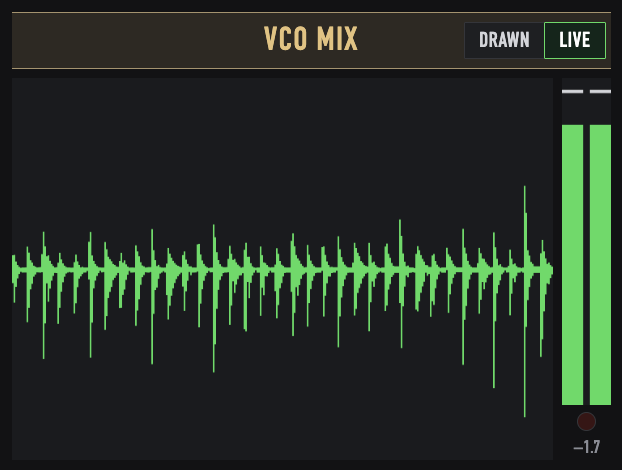
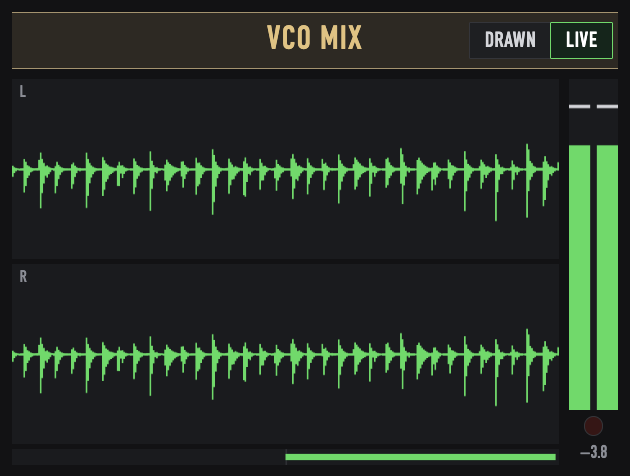
TB-3 LIVE: separate L and R waveforms and a stereo correlation bar
The mixed waveform made a lopsided wave look like a pan. Logging the real TB-3 showed no DC offset and
equal L/R levels; the effects decorrelate the sides. drawCorrelation moves from the SP-404 scopes into
packages/audio so both editors share it.

diff --git a/apps/tb3/src/editor/LiveWave.tsx b/apps/tb3/src/editor/LiveWave.tsx
@@ -1,56 +1,89 @@
-// VCO MIX's LIVE view: the TB-3's output as a scrolling waveform with a stereo level meter
-// (docs/tb3-live-waveform-design.md). Drawn each animation frame, outside React's renders.
+// VCO MIX's LIVE view: the TB-3's output as scrolling L and R waveforms, a stereo correlation bar and a level
+// meter (docs/tb3-live-waveform-design.md). Drawn each animation frame, outside React's renders.
 import { useEffect, useRef } from "react";
 import type { RefObject } from "react";
-import { clearClip, createWaveColumns, drawMeter, drawWave, formatDb, meterStep, paletteOf, pushSamples, samplesPerColumn,
-  silentMeter, surfaceOf } from "@synth-editors/audio";
-import type { Meter, Palette, WaveColumns } from "@synth-editors/audio";
+import {
+  clearClip, correlationOf, createCorrelation, createWaveColumns, drawCorrelation, drawMeter, drawWave, formatDb,
+  meterStep, paletteOf, pushCorrelation, pushSamples, samplesPerColumn, silentMeter, surfaceOf,
+} from "@synth-editors/audio";
+import type { Correlation, Meter, Palette, WaveColumns } from "@synth-editors/audio";
 import type { Listening } from "./tb3Audio";
 import type { AudioStatus, Tb3Audio } from "./useTb3Audio";
 
 const LIVE_SPAN_S = 4;
 const METER_W = 30;
 const READOUT_H = 34;
+const CORR_H = 10;
+const GAP = 3;
 const CLIP_TIP = "Clip light and highest peak (dBFS) since the last click: click to clear";
+const CORR_TIP = "Stereo correlation: right of centre is alike in both sides (+1 is mono), left is out of phase";
+
+type Pair<T> = [T, T];
+type Canvases = [HTMLCanvasElement, HTMLCanvasElement, HTMLCanvasElement, HTMLCanvasElement];
 
 interface Shown {
-  cols: WaveColumns | null;
-  rate: number;
-  meters: [Meter, Meter];
+  waves: Pair<WaveColumns> | null;
+  corr: Correlation | null;
+  meters: Pair<Meter>;
   palette: Palette | null;
 }
 
-const emptyShown = (): Shown => ({ cols: null, rate: 0, meters: [silentMeter(), silentMeter()], palette: null });
+const emptyShown = (): Shown => ({ waves: null, corr: null, meters: [silentMeter(), silentMeter()], palette: null });
 
-// Feed one frame of audio into the columns and meters.
+function start(s: Shown, rate: number, waveW: number) {
+  const perColumn = samplesPerColumn(LIVE_SPAN_S, waveW, rate);
+  s.waves = [createWaveColumns(waveW, perColumn), createWaveColumns(waveW, perColumn)];
+  s.corr = createCorrelation(rate);
+}
+
+// Feed one frame of audio into the waveforms, correlation and meters.
 function advance(s: Shown, l: Listening, waveW: number) {
   const f = l.read();
-  if (!s.cols || s.rate !== l.sampleRate) {
-    s.cols = createWaveColumns(waveW, samplesPerColumn(LIVE_SPAN_S, waveW, l.sampleRate));
-    s.rate = l.sampleRate;
-  }
-  pushSamples(s.cols, f.mix);
+  if (!s.waves || s.corr?.rate !== l.sampleRate) start(s, l.sampleRate, waveW);
+  pushSamples(s.waves![0], f.left);
+  pushSamples(s.waves![1], f.right);
+  pushCorrelation(s.corr!, f.left, f.right);
   s.meters = [meterStep(s.meters[0], f.left, f.now), meterStep(s.meters[1], f.right, f.now)];
 }
 
 interface Parts {
-  wave: RefObject<HTMLCanvasElement | null>;
+  lanes: RefObject<HTMLDivElement | null>;
+  left: RefObject<HTMLCanvasElement | null>;
+  right: RefObject<HTMLCanvasElement | null>;
+  corr: RefObject<HTMLCanvasElement | null>;
   meter: RefObject<HTMLCanvasElement | null>;
   readout: RefObject<HTMLSpanElement | null>;
   clip: RefObject<HTMLButtonElement | null>;
 }
 
-function paint(s: Shown, parts: Parts, size: { waveW: number; h: number }) {
-  const wave = parts.wave.current;
-  const meter = parts.meter.current;
-  if (!wave || !meter) return;
-  const p = (s.palette ??= paletteOf(wave));
-  drawWave(surfaceOf(wave, { w: size.waveW, h: size.h }, p), s.cols);
-  drawMeter(surfaceOf(meter, { w: METER_W, h: size.h - READOUT_H }, p), s.meters);
+interface Size {
+  waveW: number;
+  laneH: number;
+  h: number;
+}
+
+const laneHeight = (h: number) => (h - CORR_H - 2 * GAP) / 2;
+
+function paintReadouts(s: Shown, parts: Parts) {
   const [l, r] = s.meters;
   parts.readout.current!.textContent = formatDb(Math.max(l.maxDb, r.maxDb)).replace(" dB", "");
   parts.clip.current!.classList.toggle("on", l.clipped || r.clipped);
-  wave.dataset.level = String(Math.max(l.db, r.db)); // for tests
+  const lanes = parts.lanes.current!.dataset; // for tests
+  lanes.level = String(Math.max(l.db, r.db));
+  lanes.correlation = String(s.corr ? correlationOf(s.corr) : NaN);
+}
+
+function paint(s: Shown, parts: Parts, size: Size) {
+  const canvases = [parts.left.current, parts.right.current, parts.corr.current, parts.meter.current];
+  if (!canvases.every(Boolean)) return;
+  const [left, right, corr, meter] = canvases as Canvases;
+  const p = (s.palette ??= paletteOf(left));
+  const lane = { w: size.waveW, h: size.laneH };
+  drawWave(surfaceOf(left, lane, p), s.waves?.[0] ?? null);
+  drawWave(surfaceOf(right, lane, p), s.waves?.[1] ?? null);
+  drawCorrelation(surfaceOf(corr, { w: size.waveW, h: CORR_H }, p), s.corr ? correlationOf(s.corr) : NaN);
+  drawMeter(surfaceOf(meter, { w: METER_W, h: size.h - READOUT_H }, p), s.meters);
+  paintReadouts(s, parts);
 }
 
 function useFrames(fn: () => void) {
@@ -70,14 +103,24 @@ function useFrames(fn: () => void) {
 const STATUS_TEXT: Record<AudioStatus["kind"], string> = { off: "", starting: "Opening audio input…", on: "", error: "" };
 const statusText = (s: AudioStatus) => (s.kind === "error" ? s.message : STATUS_TEXT[s.kind]);
 
+function Lane(p: { side: "L" | "R"; canvas: RefObject<HTMLCanvasElement | null>; w: number; h: number }) {
+  return (
+    <div className="lane">
+      <canvas ref={p.canvas} style={{ width: p.w, height: p.h }} />
+      <span className="lanelabel">{p.side}</span>
+    </div>
+  );
+}
+
 export function LiveWave(p: { audio: Tb3Audio; width: number; height: number }) {
-  const parts: Parts = { wave: useRef(null), meter: useRef(null), readout: useRef(null), clip: useRef(null) };
+  const parts: Parts = { lanes: useRef(null), left: useRef(null), right: useRef(null), corr: useRef(null),
+    meter: useRef(null), readout: useRef(null), clip: useRef(null) };
   const shown = useRef<Shown>(emptyShown());
-  const waveW = p.width - METER_W - 6;
+  const size: Size = { waveW: p.width - METER_W - 6, laneH: laneHeight(p.height), h: p.height };
   useFrames(() => {
     const l = p.audio.listening.current;
-    if (l) advance(shown.current, l, waveW);
-    paint(shown.current, parts, { waveW, h: p.height });
+    if (l) advance(shown.current, l, size.waveW);
+    paint(shown.current, parts, size);
   });
   const clear = () => {
     const s = shown.current;
@@ -86,7 +129,11 @@ export function LiveWave(p: { audio: Tb3Audio; width: number; height: number }) 
   const text = statusText(p.audio.status);
   return (
     <div className="livewave" style={{ width: p.width, height: p.height }}>
-      <canvas ref={parts.wave} className="wavecanvas" style={{ width: waveW, height: p.height }} />
+      <div ref={parts.lanes} className="wavelanes" style={{ width: size.waveW, gap: GAP }}>
+        <Lane side="L" canvas={parts.left} w={size.waveW} h={size.laneH} />
+        <Lane side="R" canvas={parts.right} w={size.waveW} h={size.laneH} />
+        <canvas ref={parts.corr} title={CORR_TIP} style={{ width: size.waveW, height: CORR_H }} />
+      </div>
       {text && <p className="livestatus">{text}</p>}
       <div className="meterbox" style={{ width: METER_W }}>
         <canvas ref={parts.meter} style={{ width: METER_W, height: p.height - READOUT_H }} />

diff --git a/apps/tb3/e2e/live.e2e.ts b/apps/tb3/e2e/live.e2e.ts
@@ -8,9 +8,10 @@ let running: Tb3App | undefined;
 test.afterEach(async () => finish(running));
 
 const vcoMix = (page: Page) => page.locator(".vcosum");
-const level = (page: Page) => vcoMix(page).locator(".wavecanvas").evaluate((c) => Number((c as HTMLElement).dataset.level));
+const reading = (page: Page, name: "level" | "correlation") =>
+  vcoMix(page).locator(".wavelanes").evaluate((el, key) => Number((el as HTMLElement).dataset[key]), name);
 
-test("LIVE asks for an input when there's no TB-3 audio, then shows the chosen one's level", async () => {
+test("LIVE asks for an input when there's no TB-3 audio, then shows the chosen one's readings", async () => {
   const { page } = (running = await start());
   await vcoMix(page).getByRole("button", { name: "LIVE" }).click();
   await expect(vcoMix(page).locator(".livestatus")).toContainText("No TB-3 audio input");
@@ -23,7 +24,11 @@ test("LIVE asks for an input when there's no TB-3 audio, then shows the chosen o
   await page.getByRole("button", { name: "CLOSE" }).click();
 
   await expect(vcoMix(page).locator(".livestatus")).toHaveCount(0);
-  await expect.poll(() => level(page), { timeout: 5000 }).toBeGreaterThan(-48);
+  await expect.poll(() => reading(page, "level"), { timeout: 5000 }).toBeGreaterThan(-48);
+  await expect(vcoMix(page).locator(".lanelabel")).toHaveText(["L", "R"]);
+  const corr = await reading(page, "correlation");
+  expect(corr).toBeGreaterThanOrEqual(-1);
+  expect(corr).toBeLessThanOrEqual(1);
 });
 
 test("DRAWN goes back to the picture and LIVE is remembered", async () => {

diff --git a/packages/audio/src/liveDraw.ts b/packages/audio/src/liveDraw.ts
@@ -1,4 +1,4 @@
-// Canvas drawing for the LIVE waveform and level meter (docs/tb3-live-waveform-design.md).
+// Canvas drawing for the LIVE waveform, level meter and correlation bar (docs/tb3-live-waveform-design.md).
 import { forEachColumn } from "./waveColumns";
 import type { WaveColumns } from "./waveColumns";
 import { meterFraction } from "./levelMeter";
@@ -91,4 +91,17 @@ export function drawMeter(s: Surface, meters: [Meter, Meter]) {
   s.g.fillStyle = s.p.well;
   s.g.fillRect(0, 0, s.w, s.h);
   meters.forEach((m, i) => drawBar(s, m, { x: i * (bw + gap), bw }));
+}
+
+// −1 … +1 with the centre marked; the value as a block from the centre (amber below 0). NaN draws no block.
+export function drawCorrelation({ g, w, h, p }: Surface, value: number) {
+  g.fillStyle = p.well;
+  g.fillRect(0, 0, w, h);
+  g.fillStyle = p.axis;
+  g.fillRect(Math.round(w / 2), 0, 1, h);
+  if (Number.isNaN(value)) return;
+  const mid = w / 2;
+  const x = mid + value * (mid - 2);
+  g.fillStyle = value < 0 ? p.hot : p.trace;
+  g.fillRect(Math.min(mid, x), 3, Math.max(2, Math.abs(x - mid)), h - 6);
 }

diff --git a/apps/sp404/src/scope/scopeDraw.ts b/apps/sp404/src/scope/scopeDraw.ts
@@ -1,5 +1,5 @@
 // Canvas drawing for the SCOPE view (docs/sp404-design.md › Scopes): the spectrum with its frequency and level
-// grid, the beat grid over a waveform lane, and the correlation bar. The waveform and meter come from
+// grid, and the beat grid over a waveform lane. The waveform, meter and correlation bar come from
 // packages/audio (shared with the TB-3).
 
 import { hzFraction, isBar } from "@synth-editors/audio";
@@ -84,15 +84,4 @@ export function drawBeats(s: Surface, beats: { beat: Beat; x: number }[], number
   g.globalAlpha = 1;
 }
 
-// −1 … +1 with the centre marked; the value as a block from the centre (amber below 0). NaN draws no block.
-export function drawCorrelation({ g, w, h, p }: Surface, value: number) {
-  g.fillStyle = p.well;
-  g.fillRect(0, 0, w, h);
-  g.fillStyle = p.axis;
-  g.fillRect(Math.round(w / 2), 0, 1, h);
-  if (Number.isNaN(value)) return;
-  const mid = w / 2;
-  const x = mid + value * (mid - 2);
-  g.fillStyle = value < 0 ? p.hot : p.trace;
-  g.fillRect(Math.min(mid, x), 3, Math.max(2, Math.abs(x - mid)), h - 6);
-}
+

diff --git a/apps/sp404/src/scope/scopePaint.ts b/apps/sp404/src/scope/scopePaint.ts
@@ -2,11 +2,11 @@
 // Readouts are set as text on their elements, so React doesn't re-render 60 times a second.
 
 import {
-  clockBpm, correlationOf, drawMeter, drawWave, formatDb, formatLufs, integratedLufs, paletteOf, shortTermLufs,
-  surfaceOf,
+  clockBpm, correlationOf, drawCorrelation, drawMeter, drawWave, formatDb, formatLufs, integratedLufs, paletteOf,
+  shortTermLufs, surfaceOf,
 } from "@synth-editors/audio";
 import type { BeatClock, Listening, Palette } from "@synth-editors/audio";
-import { drawBeats, drawCorrelation, drawSpectrum } from "./scopeDraw";
+import { drawBeats, drawSpectrum } from "./scopeDraw";
 import { columnOfTime, type ScopeState, type Waves } from "./scopeEngine";
 
 export type PartName =

diff --git a/apps/tb3/src/styles.css b/apps/tb3/src/styles.css
@@ -1063,6 +1063,21 @@ svg .handle:hover > .dot {
 .livewave canvas {
   display: block;
 }
+.wavelanes {
+  display: flex;
+  flex-direction: column;
+}
+.wavelanes .lane {
+  position: relative;
+}
+.wavelanes .lanelabel {
+  position: absolute;
+  top: 3px;
+  left: 5px;
+  font-size: 10px;
+  color: var(--dim);
+  pointer-events: none;
+}
 .livestatus {
   position: absolute;
   inset: 0 42px 0 0;

diff --git a/docs/tb3-live-waveform-design.md b/docs/tb3-live-waveform-design.md
@@ -8,10 +8,14 @@ actually playing, next to the picture it draws from the settings.
 
 - **VCO MIX** gets **DRAWN / LIVE** buttons in its header. DRAWN is today's picture of the mixed oscillators,
   drawn from the settings. LIVE shows the TB-3's output instead.
-- **Waveform**: a scrolling readout of the last few seconds, newest on the right. Each pixel column is the lowest
-  and highest sample in its slice of time, drawn as a filled band around the centre line, the way a DAW draws a
-  recording as it comes in. Notes, accents, envelopes, filter sweeps and the LFO show as the shape of the band;
-  silence is a flat line. Left and right are mixed for the waveform.
+- **Waveform**: a scrolling readout of the last few seconds, newest on the right, in two lanes: L above R. Each
+  pixel column is the lowest and highest sample in its slice of time, drawn as a filled band around the centre
+  line, the way a DAW draws a recording as it comes in. Notes, accents, envelopes, filter sweeps and the LFO show
+  as the shape of the band; silence is a flat line. (The first version mixed L and R into one lane; a lopsided
+  band then looked like a pan. Logging the real TB-3 showed no DC offset and equal L/R levels: the lopsidedness
+  is the wave's own shape, and the effects decorrelate the sides.)
+- **Correlation**: a thin −1 … +1 bar under the lanes (shared with the SP-404's scopes), averaged over about
+  300 ms. Right of centre is alike, +1 mono; amber left of centre is out of phase.
 - **Span**: 4 s across the panel (about 11 ms per column at its width). Fixed at first; a TIME control can come
   later if 4 s turns out wrong.
 - **Level meter**: two thin bars, L and R, down the right edge of the panel, scaled −48 to 0 dBFS:
@@ -40,8 +44,9 @@ actually playing, next to the picture it draws from the settings.
   (they would change the level and shape). An `AudioContext` splits the two channels into two `AnalyserNode`s,
   which feed a silent gain node so the graph runs without playing anything.
 - Each animation frame reads the samples that arrived since the last frame (from the context's clock) and feeds
-  them to two pure, unit-tested pieces in `core/`:
-  - `waveColumns`: builds min/max columns from a stream of samples, in a ring of the panel's width.
+  them to pure, unit-tested pieces in `packages/audio` (shared with the SP-404 editor):
+  - `waveColumns`: builds min/max columns from a stream of samples, in a ring of the panel's width (one per side).
+  - `correlation`: L·R over √(L²·R²), fading with a 300 ms time constant.
   - `levelMeter`: peak, fall, hold and clip from each frame's samples, in dBFS.
 - A canvas draws both, outside React's render loop. Nothing is stored or sent.
 - The audio stops when LIVE is switched off or the window closes.

diff --git a/apps/tb3/docs/user-guide.md b/apps/tb3/docs/user-guide.md
@@ -97,14 +97,19 @@ parameter that can be assigned gets a dotted outline. Click the one you want; Es
 
 ### The TB-3's output, live
 
-![VCO MIX in LIVE: the last 4 seconds of the TB-3's output, with its level](images/vco-mix-live.png)
+![VCO MIX in LIVE: the last 4 seconds of the TB-3's left and right output, with its level](images/vco-mix-live.png)
 
 Click **LIVE** in VCO MIX to see what the TB-3 is actually playing. This uses the TB-3's USB audio,
 so the TB-3 needs to be connected by USB, with Roland's TB-3 driver installed.
 
-- **The waveform** scrolls from right to left and shows the last 4 seconds. Each note is a burst whose
-  shape follows the envelopes; accents stand taller, filter sweeps and the LFO change the outline, and
-  silence is a flat line.
+- **The waveforms**, left (L) above right (R), scroll from right to left and show the last 4 seconds.
+  Each note is a burst whose shape follows the envelopes; accents stand taller, filter sweeps and the LFO
+  change the outline, and silence is a flat line. The TB-3's effects make the two sides differ; without
+  them they're the same. A wave that reaches further below the centre line than above it is the sound's
+  real shape (typical of a resonant filter), not a pan.
+- **The bar under the waveforms** shows how alike the two sides are. Right of centre means alike, and
+  all the way right is mono. Left of centre (amber) means the sides are out of phase, which can make
+  the sound thin or disappear when played in mono.
 - **The meter** on the right shows the left and right peak levels. The top turns amber above −6 dBFS,
   and a tick holds each peak for a moment.
 - **The red light** under the meter comes on if the level reaches full scale. It stays on until you
